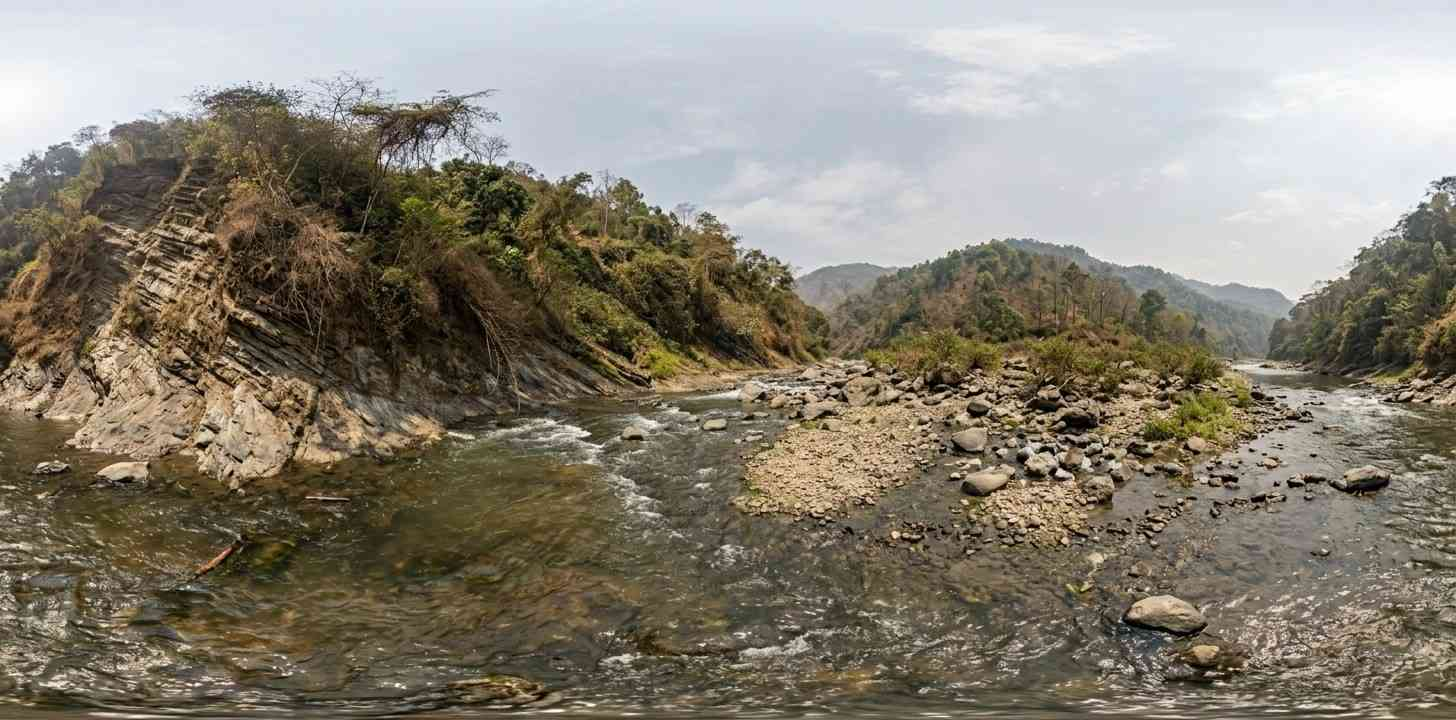
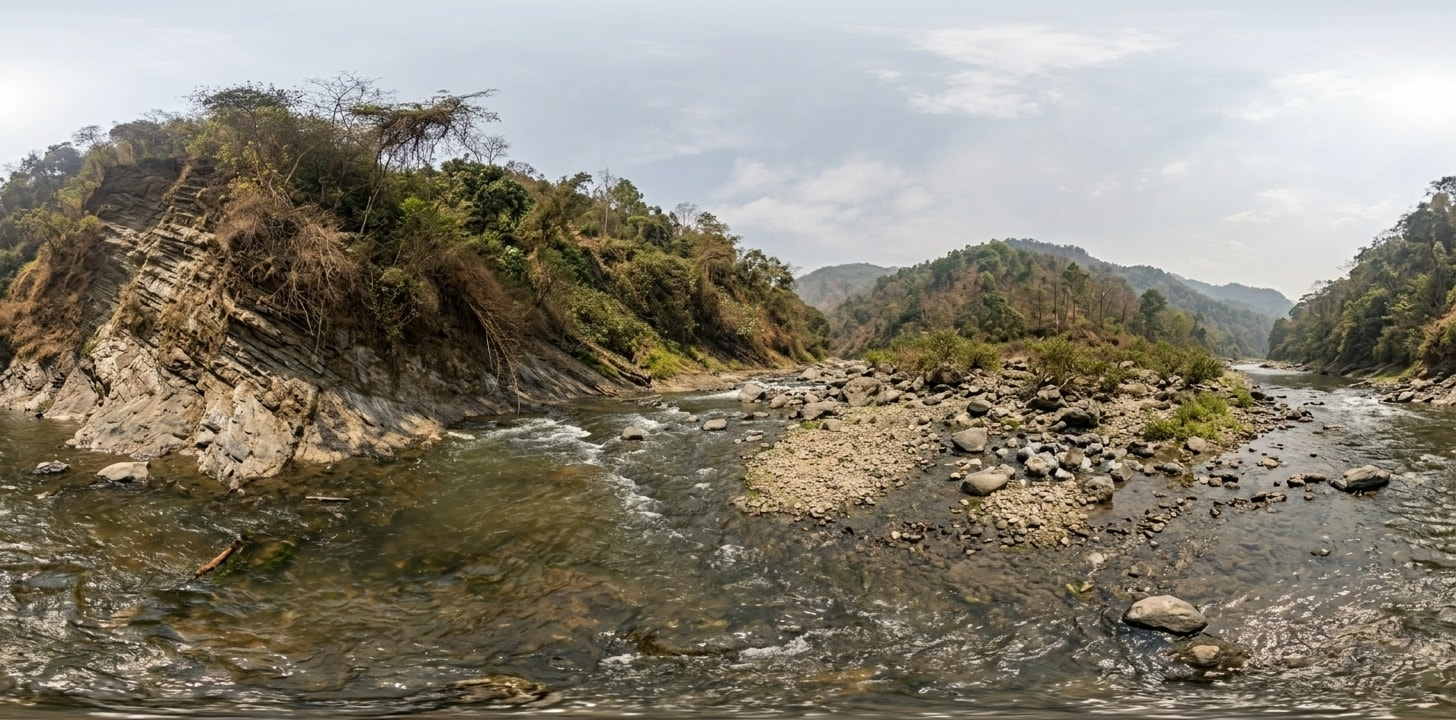
chore: optimize image assets, cleanup unused files, and update sidebar footer

diff --git a/scripts/optimize-assets.js b/scripts/optimize-assets.js
@@ -1,0 +1,147 @@
+/**
+ * optimize-assets.js
+ *
+ * Optimasi lossless/near-lossless seluruh aset gambar proyek GetasAR
+ * menggunakan sharp. Tidak mengubah resolusi, hanya mengoptimalkan
+ * encoding internal untuk memperkecil ukuran file.
+ *
+ * - PNG markers: kompresi lossless (palette + deflate level 9)
+ * - JPEG foto dusun: progressive JPEG + mozjpeg optimization (quality 90)
+ * - PNG logo: kompresi lossless
+ * - JPEG skybox: progressive JPEG + mozjpeg optimization (quality 90)
+ *
+ * Usage:
+ *   node scripts/optimize-assets.js
+ */
+import { readFileSync, writeFileSync, statSync } from 'node:fs';
+import { dirname, join, extname } from 'node:path';
+import { fileURLToPath } from 'node:url';
+import sharp from 'sharp';
+
+const __dirname = dirname(fileURLToPath(import.meta.url));
+const projectRoot = join(__dirname, '..');
+
+const formatKB = (bytes) => (bytes / 1024).toFixed(1);
+
+const optimizePNG = async (relPath) => {
+  const absPath = join(projectRoot, relPath);
+  const before = statSync(absPath).size;
+  const buffer = readFileSync(absPath);
+
+  const optimized = await sharp(buffer)
+    .png({
+      compressionLevel: 9,
+      palette: true,       // Kuantisasi ke palette jika memungkinkan (lossless untuk <=256 warna)
+      quality: 100,        // Kualitas palette maksimum
+      effort: 10,          // Upaya kompresi maksimum
+    })
+    .toBuffer();
+
+  // Hanya tulis jika hasilnya lebih kecil
+  if (optimized.length < before) {
+    writeFileSync(absPath, optimized);
+    const after = optimized.length;
+    console.log(`  ✅ ${relPath}: ${formatKB(before)} KB → ${formatKB(after)} KB (hemat ${formatKB(before - after)} KB)`);
+    return { before, after };
+  } else {
+    console.log(`  ⏭  ${relPath}: ${formatKB(before)} KB — sudah optimal`);
+    return { before, after: before };
+  }
+};
+
+const optimizeJPEG = async (relPath) => {
+  const absPath = join(projectRoot, relPath);
+  const before = statSync(absPath).size;
+  const buffer = readFileSync(absPath);
+
+  const optimized = await sharp(buffer)
+    .jpeg({
+      quality: 90,         // Kualitas tinggi — visual identik
+      progressive: true,   // Progressive scan untuk loading bertahap
+      mozjpeg: true,       // Menggunakan encoder mozjpeg (lebih efisien)
+    })
+    .toBuffer();
+
+  if (optimized.length < before) {
+    writeFileSync(absPath, optimized);
+    const after = optimized.length;
+    console.log(`  ✅ ${relPath}: ${formatKB(before)} KB → ${formatKB(after)} KB (hemat ${formatKB(before - after)} KB)`);
+    return { before, after };
+  } else {
+    console.log(`  ⏭  ${relPath}: ${formatKB(before)} KB — sudah optimal`);
+    return { before, after: before };
+  }
+};
+
+const main = async () => {
+  console.log('═══ Optimasi Aset GetasAR ═══\n');
+
+  let totalBefore = 0;
+  let totalAfter = 0;
+
+  // 1. Marker PNG (lossless)
+  console.log('📌 Marker AR (PNG lossless):');
+  const markers = [
+    'public/target/gula aren.png',
+    'public/target/kolang kaling.png',
+    'public/target/kopi gempol.png',
+    'public/target/susu kambing.png',
+  ];
+  for (const f of markers) {
+    const r = await optimizePNG(f);
+    totalBefore += r.before;
+    totalAfter += r.after;
+  }
+
+  // 2. Foto dusun (JPEG progressive + mozjpeg)
+  console.log('\n🖼  Foto Dusun (JPEG progressive):');
+  const photos = [
+    'src/assets/genting.jpg',
+    'src/assets/Banjaran.jpg',
+    'src/assets/truko.jpg',
+    'src/assets/Metep.jpg',
+    'src/assets/Bleder.jpg',
+    'src/assets/Getas.jpg',
+    'src/assets/Jolinggo.jpg',
+    'src/assets/Mambang.jpg',
+    'src/assets/Sekolotok.jpg',
+  ];
+  for (const f of photos) {
+    const r = await optimizeJPEG(f);
+    totalBefore += r.before;
+    totalAfter += r.after;
+  }
+
+  // 3. Skybox (JPEG progressive + mozjpeg)
+  console.log('\n🌄 Skybox (JPEG progressive):');
+  {
+    const r = await optimizeJPEG('public/forest360.jpg');
+    totalBefore += r.before;
+    totalAfter += r.after;
+  }
+
+  // 4. Logo PNG (lossless)
+  console.log('\n🏷  Logo (PNG lossless):');
+  const logos = [
+    'src/assets/logoppko.png',
+    'src/assets/Logo.png',
+  ];
+  for (const f of logos) {
+    const r = await optimizePNG(f);
+    totalBefore += r.before;
+    totalAfter += r.after;
+  }
+
+  // Ringkasan
+  const saved = totalBefore - totalAfter;
+  console.log('\n═══════════════════════════════════════');
+  console.log(`📊 TOTAL SEBELUM : ${formatKB(totalBefore)} KB (${(totalBefore / 1024 / 1024).toFixed(2)} MB)`);
+  console.log(`📊 TOTAL SESUDAH : ${formatKB(totalAfter)} KB (${(totalAfter / 1024 / 1024).toFixed(2)} MB)`);
+  console.log(`💾 HEMAT         : ${formatKB(saved)} KB (${(saved / totalBefore * 100).toFixed(1)}%)`);
+  console.log('═══════════════════════════════════════');
+};
+
+main().catch((err) => {
+  console.error('Optimasi gagal:', err);
+  process.exit(1);
+});

diff --git a/src/components/Sidebar.jsx b/src/components/Sidebar.jsx
@@ -33,7 +33,7 @@ const Sidebar = ({ activeTab, setActiveTab, isOpen, setIsOpen }) => {
           </div>
         </div>
         <a
-          href="https://gardu.site/"
+          href="https://pesonagetas.com"
           className="flex items-center gap-1.5 px-3 py-1.5 rounded-full border border-slate-200 text-[11px] text-slate-700 bg-slate-50 hover:bg-slate-100 transition-colors"
         >
           <ExternalLink size={12} />
@@ -55,15 +55,15 @@ const Sidebar = ({ activeTab, setActiveTab, isOpen, setIsOpen }) => {
                 {/* Active pill background */}
                 <span
                   className={`absolute inset-x-1 inset-y-0 rounded-xl transition-all duration-300 ${isActive
-                      ? 'bg-blue-500/10 ring-1 ring-blue-500/30'
-                      : 'bg-transparent'
+                    ? 'bg-blue-500/10 ring-1 ring-blue-500/30'
+                    : 'bg-transparent'
                     }`}
                 ></span>
                 <span className="relative flex items-center justify-center">
                   <span
                     className={`w-9 h-9 rounded-full flex items-center justify-center transition-all duration-300 ${isActive
-                        ? 'bg-blue-500 text-white shadow-[0_4px_14px_rgba(59,130,246,0.4)] scale-105'
-                        : 'text-slate-400 group-hover:bg-slate-100 group-hover:text-blue-500'
+                      ? 'bg-blue-500 text-white shadow-[0_4px_14px_rgba(59,130,246,0.4)] scale-105'
+                      : 'text-slate-400 group-hover:bg-slate-100 group-hover:text-blue-500'
                       }`}
                   >
                     <Icon size={18} />
@@ -149,11 +149,11 @@ const Sidebar = ({ activeTab, setActiveTab, isOpen, setIsOpen }) => {
 
         {/* Footer Button */}
         <div className="mt-auto flex flex-col gap-4">
-          <a href="https://gardu.site/" className="flex items-center justify-center gap-2 px-4 py-2.5 border border-slate-200 rounded-lg no-underline text-slate-700 bg-white hover:bg-slate-50 text-[13px] transition-colors duration-200 font-semibold shadow-sm">
+          <a href="https://pesonagetas.com" className="flex items-center justify-center gap-2 px-4 py-2.5 border border-slate-200 rounded-lg no-underline text-slate-700 bg-white hover:bg-slate-50 text-[13px] transition-colors duration-200 font-semibold shadow-sm">
             <ExternalLink size={16} />
             Kunjungi Website
           </a>
-          <div className="text-[11px] text-slate-400 text-left pl-4">&copy; 2026 Getas AR</div>
+          <div className="text-[11px] text-slate-400 text-left pl-4">&copy; 2026 TIM PPK Ormawa BEM FIK 2026 Udinus. Seluruh hak dilindungi.</div>
         </div>
       </aside>
     </>
